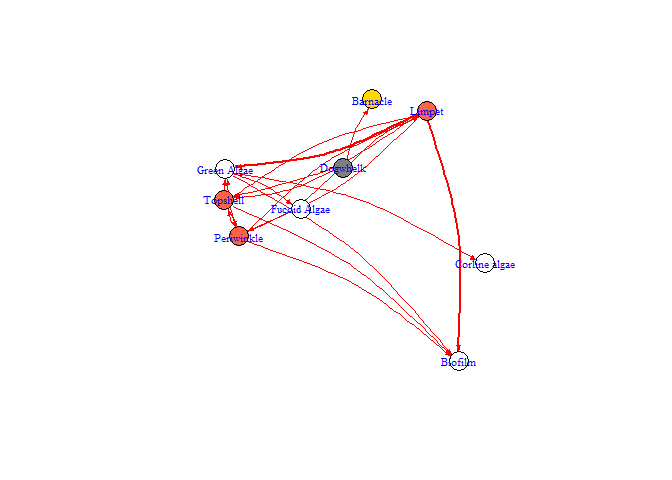
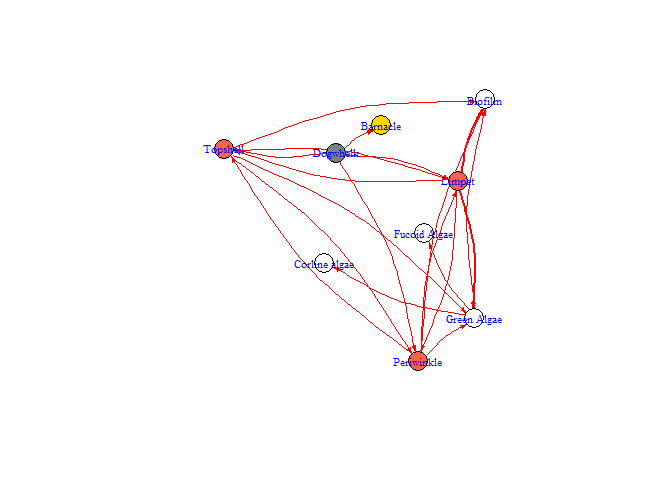
Updates 15th August (part 2) 2025

Changed region(s): [[0.2812, 0.1875, 0.7812, 0.7812], [0.5312, 0.4062, 0.5625, 0.4375]]

diff --git a/README.md b/README.md
@@ -1,7 +1,7 @@
 BBNet – Simple predictive models based on Bayesian belief networks
 ================
 Victoria Dominguez Almela & Richard Stafford
-31 July, 2025
+15 August, 2025
 
 - [bbnet
   <img src="man/figures/Logo2.png" align="right" height="138" /></a>](#bbnet-)
@@ -171,7 +171,7 @@ bbn.predict(bbn.model = my_BBN, priors1 = dogwhelk, figure = 0) # figure set to 
 #> 4  1.6000000    Periwinkle  1.6000000  1.6000000
 #> 5  2.4000000      Barnacle  2.4000000  2.4000000
 #> 6 -1.7985382   Green Algae -1.7985382 -1.7985382
-#> 7 -0.6800000       Biofilm -0.6800000 -0.6800000
+#> 7 -1.7985382       Biofilm -1.7985382 -1.7985382
 #> 8  1.0791229 Corline algae  1.0791229  1.0791229
 #> 9  0.3597076  Fucoid Algae  0.3597076  0.3597076
 ```
@@ -249,55 +249,55 @@ results <- bbn.predict(bbn.model = my_BBN, priors1 = dogwhelk, priors2 = winkle,
 #> winkle, : Node names in priors are different to those in the interaction matrix
 #> - prior names will be used, but please check order of nodes is identical
 #> [1] "Scenario number  1"
-#>     Increase          name     LowerCI    UpperCI
-#> 1 -4.0000000      Dogwhelk -4.00000000 -4.0000000
-#> 2  0.8000000      Topshell  0.17889751  1.0123913
-#> 3  1.6000000        Limpet  0.52557752  1.8476517
-#> 4  1.6000000    Periwinkle  0.52729988  1.8315324
-#> 5  2.4000000      Barnacle  2.39406954  2.4197561
-#> 6 -1.7985382   Green Algae -2.54492119  0.0000000
-#> 7 -0.6800000       Biofilm -1.92631138  0.0000000
-#> 8  1.0791229 Corline algae  0.02409555  1.6009148
-#> 9  0.3597076  Fucoid Algae  0.00000000  0.5413387
+#>     Increase          name    LowerCI    UpperCI
+#> 1 -4.0000000      Dogwhelk -4.0000000 -4.0000000
+#> 2  0.8000000      Topshell  0.6254595  0.9656235
+#> 3  1.6000000        Limpet  1.5143918  1.6750624
+#> 4  1.6000000    Periwinkle  1.4986888  1.7169608
+#> 5  2.4000000      Barnacle  2.3607991  2.4160612
+#> 6 -1.7985382   Green Algae -2.3159993  0.0000000
+#> 7 -1.7985382       Biofilm -2.5117583  0.0000000
+#> 8  1.0791229 Corline algae  0.0000000  1.4349772
+#> 9  0.3597076  Fucoid Algae  0.0000000  0.4650112
 #> Warning in bbn.predict(bbn.model = my_BBN, priors1 = dogwhelk, priors2 =
 #> winkle, : Node names in priors are different to those in the interaction matrix
 #> - prior names will be used, but please check order of nodes is identical
 #> [1] "Scenario number  2"
-#>   Increase          name     LowerCI     UpperCI
-#> 1     0.00      Dogwhelk  0.00000000  0.00000000
-#> 2    -0.20      Topshell -0.36551060  0.00000000
-#> 3    -0.20        Limpet -0.38948433 -0.06801676
-#> 4     3.00    Periwinkle  3.00000000  3.00000000
-#> 5     0.00      Barnacle  0.00000000  0.00000000
-#> 6    -0.60   Green Algae -0.73628567 -0.47616121
-#> 7    -0.45       Biofilm -0.62016064 -0.30546208
-#> 8     0.36 Corline algae  0.13915245  0.48142605
-#> 9     0.12  Fucoid Algae  0.06698419  0.42260373
+#>   Increase          name    LowerCI    UpperCI
+#> 1     0.00      Dogwhelk  0.0000000  0.0000000
+#> 2    -0.60      Topshell -0.8859101 -0.3889231
+#> 3    -0.60        Limpet -0.7161615 -0.4135167
+#> 4     3.00    Periwinkle  3.0000000  3.0000000
+#> 5     0.00      Barnacle  0.0000000  0.0000000
+#> 6    -1.80   Green Algae -2.3039743 -1.4805342
+#> 7    -1.80       Biofilm -2.4281818 -1.4755448
+#> 8     1.08 Corline algae  0.7867032  1.3937164
+#> 9     0.36  Fucoid Algae  0.1737414  0.4900351
 #> Warning in bbn.predict(bbn.model = my_BBN, priors1 = dogwhelk, priors2 =
 #> winkle, : Node names in priors are different to those in the interaction matrix
 #> - prior names will be used, but please check order of nodes is identical
 #> [1] "Scenario number  3"
-#>      Increase          name    LowerCI    UpperCI
-#> 1 -4.00000000      Dogwhelk -4.0000000 -4.0000000
-#> 2  0.06666667      Topshell  0.0000000  0.8163132
-#> 3  0.33333333        Limpet  0.1735027  0.4702048
-#> 4  3.00000000    Periwinkle  3.0000000  3.0000000
-#> 5  2.40000000      Barnacle  2.3885873  2.4165676
-#> 6 -1.89779200   Green Algae -2.6037531 -0.7136886
-#> 7 -0.46666667       Biofilm -0.6916419 -0.3101190
-#> 8  1.13867520 Corline algae  0.4418393  1.5795833
-#> 9  0.37955840  Fucoid Algae  0.1327066  0.5898523
+#>     Increase          name    LowerCI    UpperCI
+#> 1 -4.0000000      Dogwhelk -4.0000000 -4.0000000
+#> 2  0.5480000      Topshell  0.0000000  0.7302683
+#> 3  1.3960000        Limpet  1.2200014  1.5356487
+#> 4  3.0000000    Periwinkle  3.0000000  3.0000000
+#> 5  2.4000000      Barnacle  2.4007149  2.4007149
+#> 6 -2.2508415   Green Algae -2.6165441 -1.7374702
+#> 7 -2.0529021       Biofilm -2.2566043 -1.8152090
+#> 8  1.3505049 Corline algae  1.0421560  1.5881879
+#> 9  0.4501683  Fucoid Algae  0.3201083  0.5516109
 results[[2]]$summary  # view the numeric output for scenario 2
-#>   Increase          name     LowerCI     UpperCI
-#> 1     0.00      Dogwhelk  0.00000000  0.00000000
-#> 2    -0.20      Topshell -0.36551060  0.00000000
-#> 3    -0.20        Limpet -0.38948433 -0.06801676
-#> 4     3.00    Periwinkle  3.00000000  3.00000000
-#> 5     0.00      Barnacle  0.00000000  0.00000000
-#> 6    -0.60   Green Algae -0.73628567 -0.47616121
-#> 7    -0.45       Biofilm -0.62016064 -0.30546208
-#> 8     0.36 Corline algae  0.13915245  0.48142605
-#> 9     0.12  Fucoid Algae  0.06698419  0.42260373
+#>   Increase          name    LowerCI    UpperCI
+#> 1     0.00      Dogwhelk  0.0000000  0.0000000
+#> 2    -0.60      Topshell -0.8859101 -0.3889231
+#> 3    -0.60        Limpet -0.7161615 -0.4135167
+#> 4     3.00    Periwinkle  3.0000000  3.0000000
+#> 5     0.00      Barnacle  0.0000000  0.0000000
+#> 6    -1.80   Green Algae -2.3039743 -1.4805342
+#> 7    -1.80       Biofilm -2.4281818 -1.4755448
+#> 8     1.08 Corline algae  0.7867032  1.3937164
+#> 9     0.36  Fucoid Algae  0.1737414  0.4900351
 ```
 
 ## Visualising changes over time
@@ -505,23 +505,24 @@ bbn.sensitivity(bbn.model = my_BBN, boot_max = 100, 'Limpet', 'Green Algae')
 <img src="man/figures/README-unnamed-chunk-9-1.png" width="100%" />
 
     #>                   sens.output Freq
-    #> 1         Periwinkle->Biofilm    1
-    #> 2       Topshell->Green.Algae    1
-    #> 3            Dogwhelk->Limpet    2
-    #> 4        Dogwhelk->Periwinkle    2
-    #> 5          Dogwhelk->Topshell    2
-    #> 6   Green.Algae->Fucoid.Algae    2
-    #> 7         Limpet->Green.Algae    2
-    #> 8          Periwinkle->Limpet    2
-    #> 9        Periwinkle->Topshell    2
-    #> 10          Topshell->Biofilm    2
-    #> 11            Limpet->Biofilm    3
-    #> 12           Topshell->Limpet    3
-    #> 13           Limpet->Topshell    4
-    #> 14       Green.Algae->Biofilm    5
-    #> 15    Periwinkle->Green.Algae    5
-    #> 16 Green.Algae->Corline.algae    6
-    #> 17       Topshell->Periwinkle    6
+    #> 1            Dogwhelk->Limpet    1
+    #> 2   Green.Algae->Fucoid.Algae    1
+    #> 3          Limpet->Periwinkle    1
+    #> 4          Dogwhelk->Topshell    2
+    #> 5        Green.Algae->Biofilm    2
+    #> 6  Green.Algae->Corline.algae    2
+    #> 7         Periwinkle->Biofilm    2
+    #> 8          Dogwhelk->Barnacle    3
+    #> 9             Limpet->Biofilm    3
+    #> 10        Limpet->Green.Algae    3
+    #> 11           Limpet->Topshell    3
+    #> 12    Periwinkle->Green.Algae    3
+    #> 13         Periwinkle->Limpet    3
+    #> 14          Topshell->Biofilm    3
+    #> 15           Topshell->Limpet    3
+    #> 16      Topshell->Green.Algae    4
+    #> 17       Topshell->Periwinkle    5
+    #> 18       Periwinkle->Topshell    6
 
 The function works by bootstrapping with multiple changes to prior
 values and interaction strengths in the network. The frequency shows the
@@ -654,14 +655,14 @@ citation("bbnet")
 #> 
 #>   Dominguez Almela V, Stafford R (????). _bbnet: Create Simple
 #>   Predictive Models on Bayesian Belief Networks_. R package version
-#>   1.2.0, <https://github.com/vda1r22/bbnet>.
+#>   1.2.1, <https://github.com/vda1r22/bbnet>.
 #> 
 #> A BibTeX entry for LaTeX users is
 #> 
 #>   @Manual{,
 #>     title = {bbnet: Create Simple Predictive Models on Bayesian Belief Networks},
 #>     author = {Victoria {Dominguez Almela} and Richard Stafford},
-#>     note = {R package version 1.2.0},
+#>     note = {R package version 1.2.1},
 #>     url = {https://github.com/vda1r22/bbnet},
 #>   }
 ```
